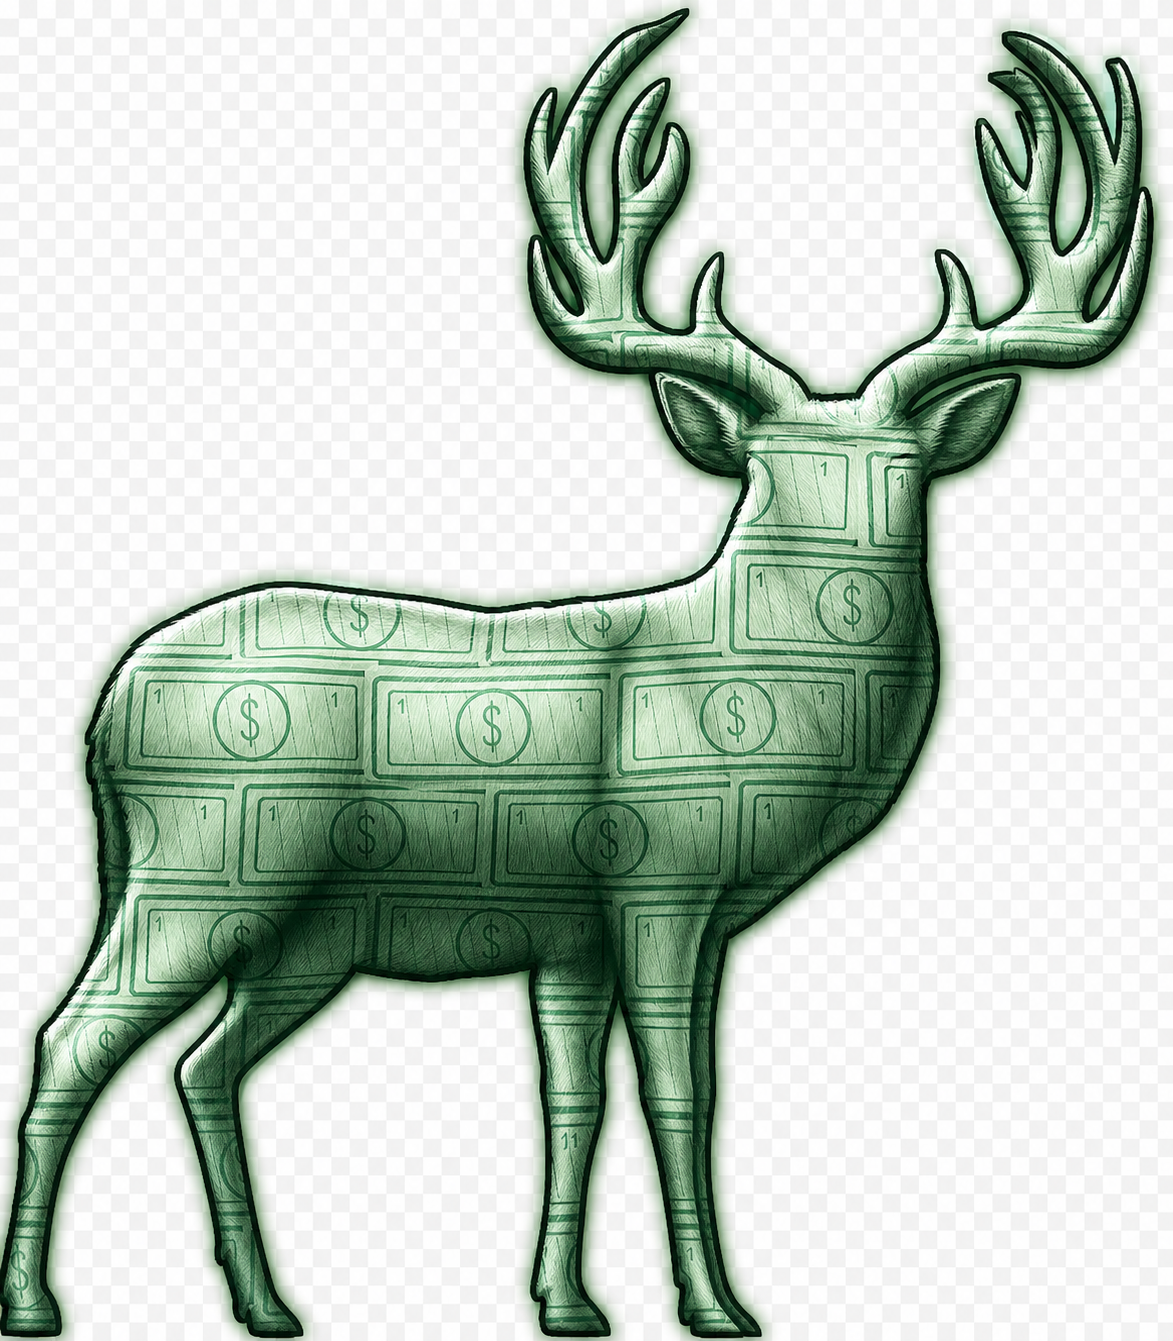
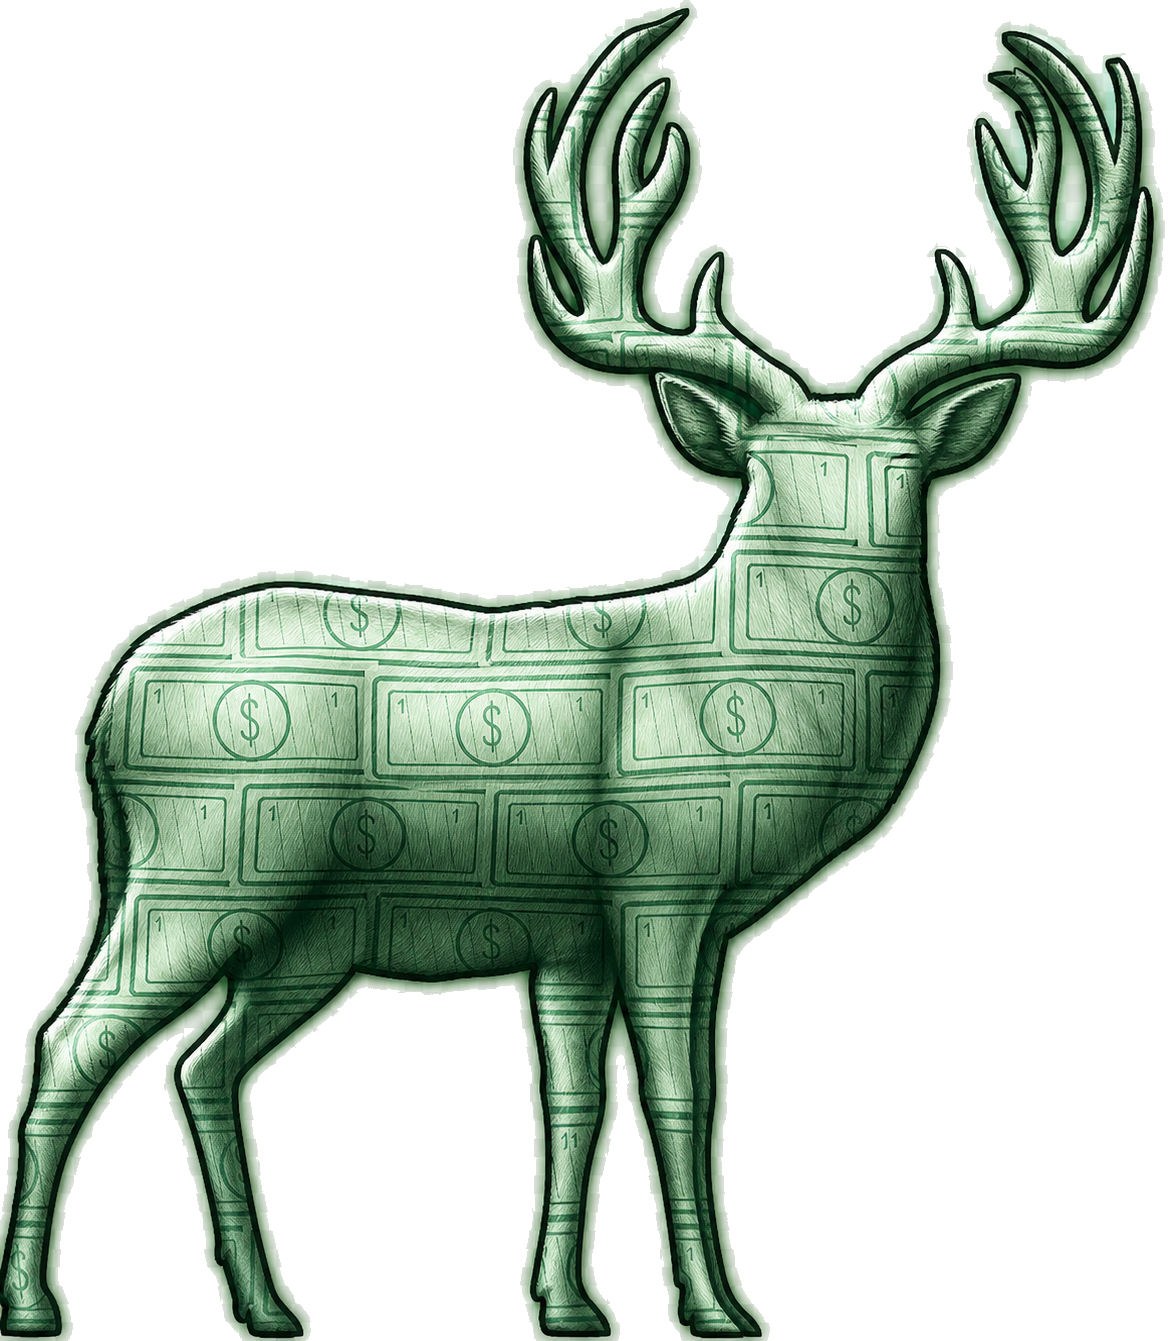
Restore transparent artwork and bank linking entry point

diff --git a/index.html b/index.html
@@ -768,8 +768,8 @@ Available anytime for questions or issues</span>
     <!-- Connected Accounts -->
     <div style="margin-bottom:28px;padding-bottom:24px;border-bottom:1px solid var(--border)">
       <div style="font-size:0.8rem;font-weight:700;text-transform:uppercase;color:var(--muted);letter-spacing:1px;margin-bottom:12px">Connected Accounts</div>
-      <div style="font-size:0.85rem;color:var(--muted);margin-bottom:12px">Link other bank accounts and services for faster transfers.</div>
-      <button style="width:100%;padding:12px;background:var(--surface2);border:1px solid var(--border);border-radius:10px;cursor:pointer;font-weight:600;color:var(--text);margin-bottom:8px" onclick="toast('Coming soon: Link bank accounts')">
+      <div style="font-size:0.85rem;color:var(--muted);margin-bottom:12px">Securely link a bank account through Plaid for funding and transfers.</div>
+      <button style="width:100%;padding:12px;background:var(--green);color:#000;border:1px solid var(--green);border-radius:10px;cursor:pointer;font-weight:700;margin-bottom:8px" onclick="openAddFundsModal(); switchFundsTab('bank')">
         + Link Bank Account
       </button>
       <button style="width:100%;padding:12px;background:var(--surface2);border:1px solid var(--border);border-radius:10px;cursor:pointer;font-weight:600;color:var(--text)" onclick="toast('Coming soon: Apple Pay integration')">

diff --git a/assets/fawn-os.css b/assets/fawn-os.css
@@ -2,7 +2,7 @@
 .fawn-image,
 .buck-art {
   background: transparent !important;
-  mix-blend-mode: multiply;
+  mix-blend-mode: normal;
 }
 
 .receive-profile {